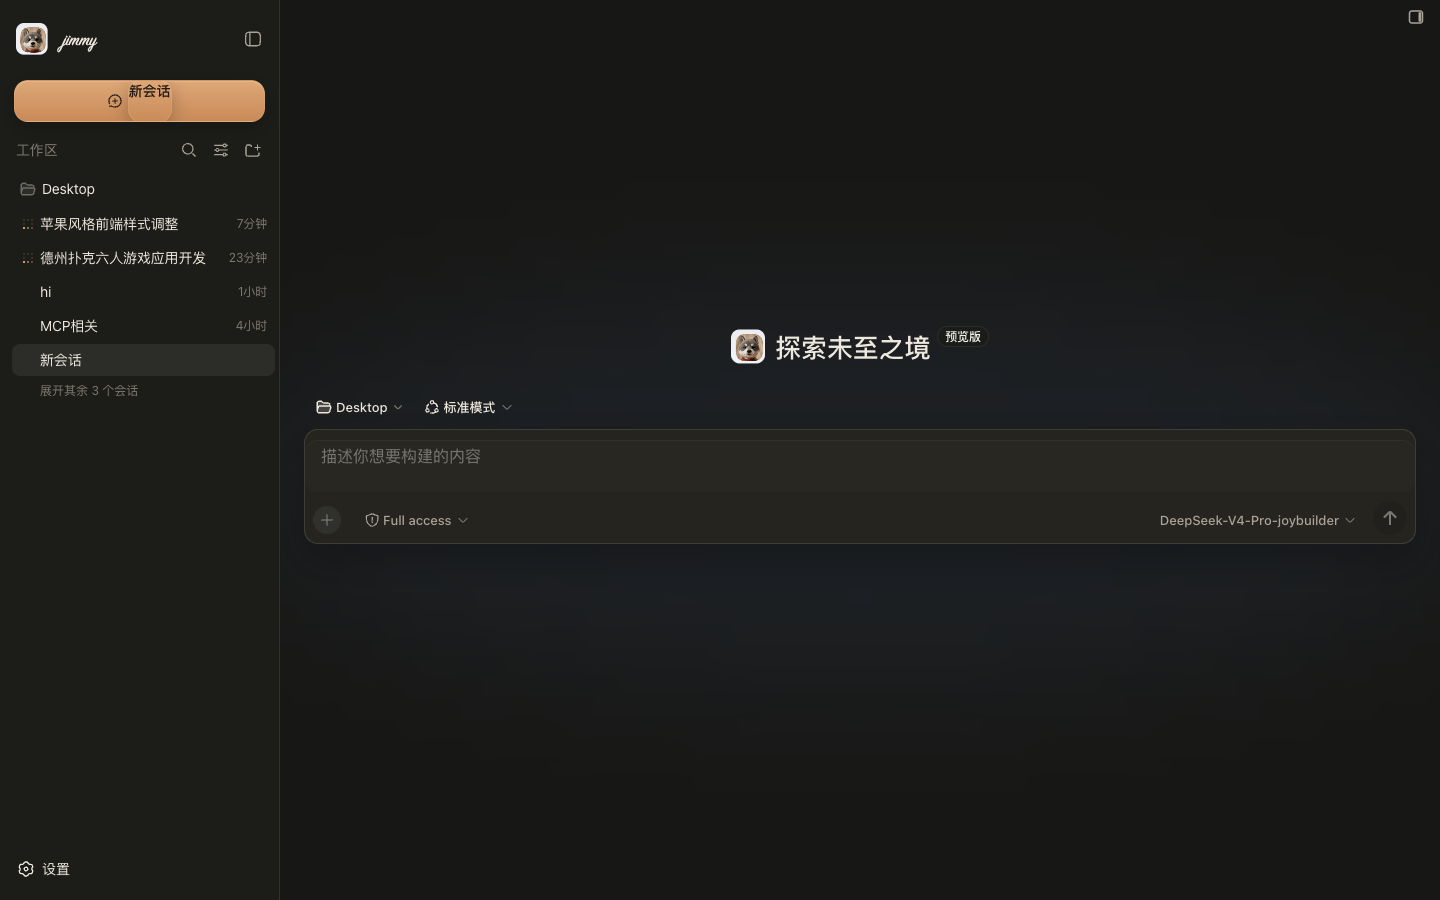
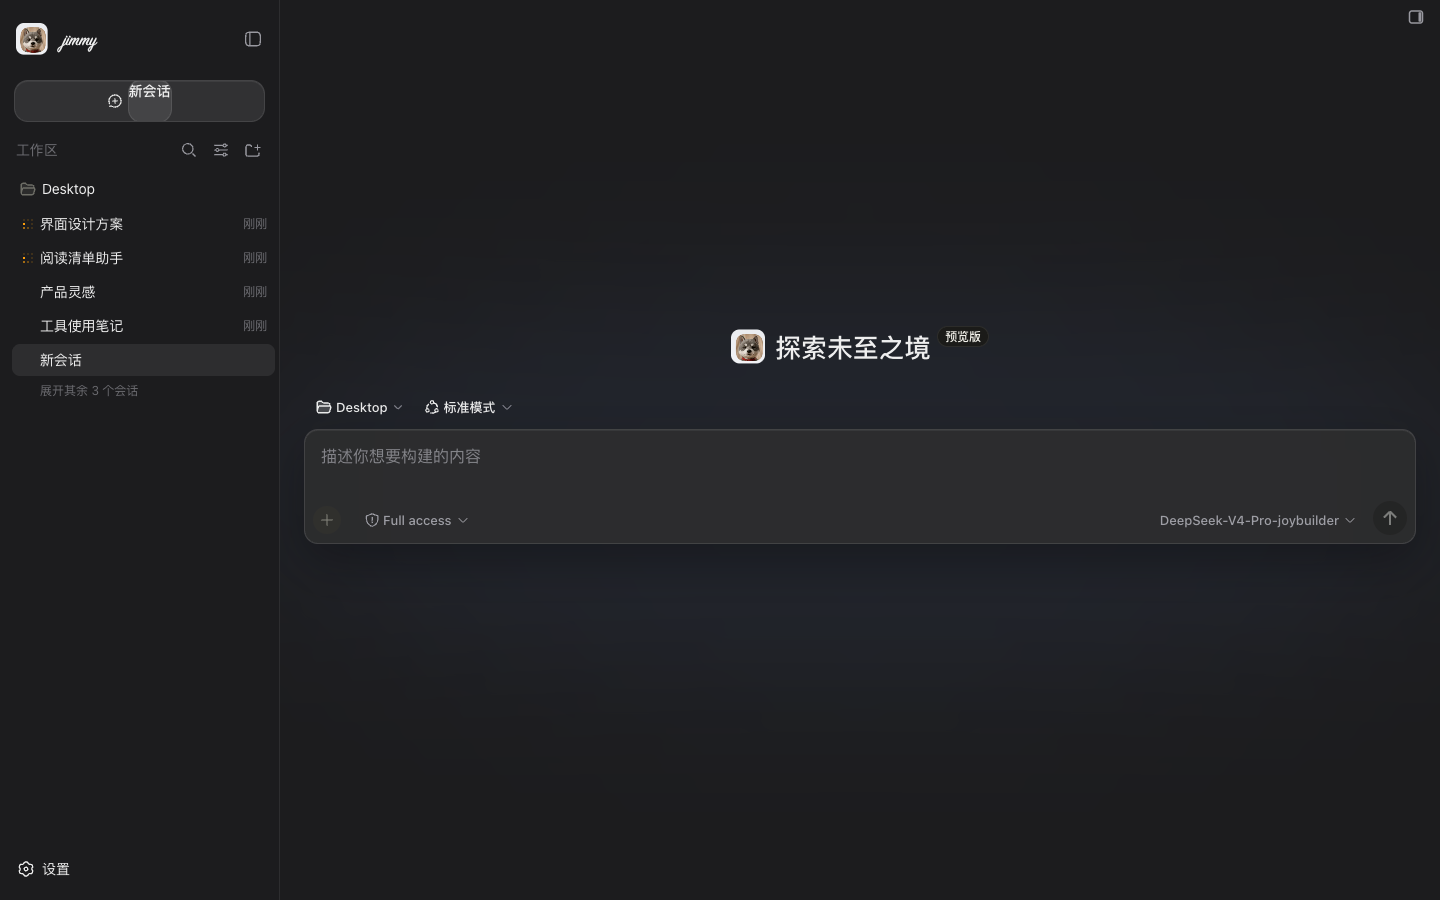
refactor: redesign Apple dark appearance

Changed region(s): [[0.0, 0.0622, 0.1875, 0.1556], [0.0312, 0.2178, 0.1875, 0.3733]]

diff --git a/lib/client.js b/lib/client.js
@@ -30,31 +30,47 @@ window.__ModuleLoader__.load({
 }
 body[data-ds-dark-theme] {
   color-scheme: dark;
-  --jimmy-orange: #d49a6a;
-  --jimmy-orange-deep: #bd8050;
-  --jimmy-cream: #2a2721;
-  --jimmy-ink: #eee9de;
-  --dsw-alias-brand-primary: #d49a6a !important;
-  --dsw-static-deepseek-450: #d49a6a !important;
-  --dsw-alias-bg-base: #171715 !important;
-  --dsw-specific-sidebar-fill: rgba(28,28,25,.92) !important;
-  --dsw-alias-bg-layer-1: #1e1e1b !important;
-  --dsw-alias-bg-layer-2: #25241f !important;
-  --dsw-alias-label-primary: #eee9de !important;
-  --dsw-alias-label-secondary: #aaa398 !important;
-  --dsw-alias-label-tertiary: #7f7a71 !important;
-  --dsw-alias-interactive-bg-hover: rgba(255,247,232,.07) !important;
-  --dsw-alias-border-l1: rgba(238,233,222,.10) !important;
-  --dsw-alias-border-l2: rgba(238,233,222,.15) !important;
-  --dsw-alias-markdown-code-block: #22211d !important;
-  --dsw-specific-input-major: #25241f !important;
-  --dsw-alias-border-l2-darkmode-thin: rgba(238,233,222,.13) !important;
-  --dsw-alias-scrollbar-bg-l2: rgba(238,233,222,.16) !important;
-  --shiki-background: #22211d !important;
-  --shiki-foreground: #ded8cd !important;
+  /* Apple-style dark hierarchy: the canvas recedes and elevated surfaces get
+     progressively lighter. Warm orange is an accent, never the background. */
+  --jimmy-orange: #ff9f0a;
+  --jimmy-orange-deep: #ffb340;
+  --jimmy-cream: #2c2c2e;
+  --jimmy-ink: rgba(255,255,255,.92);
+  --jimmy-dark-canvas: #1c1c1e;
+  --jimmy-dark-sidebar: rgba(28,28,30,.78);
+  --jimmy-dark-surface: #242426;
+  --jimmy-dark-raised: #2c2c2e;
+  --jimmy-dark-elevated: #323235;
+  --dsw-alias-brand-primary: #ff9f0a !important;
+  --dsw-static-deepseek-450: #ff9f0a !important;
+  --dsw-alias-bg-base: var(--jimmy-dark-canvas) !important;
+  --dsw-specific-sidebar-fill: var(--jimmy-dark-sidebar) !important;
+  --dsw-alias-bg-layer-1: var(--jimmy-dark-surface) !important;
+  --dsw-alias-bg-layer-2: var(--jimmy-dark-raised) !important;
+  --dsw-alias-bg-layer-3: var(--jimmy-dark-elevated) !important;
+  --dsw-alias-bg-module-platform: var(--jimmy-dark-surface) !important;
+  --dsw-specific-menu: rgba(44,44,46,.96) !important;
+  --dsw-specific-input-major: var(--jimmy-dark-raised) !important;
+  --dsw-alias-label-primary: rgba(255,255,255,.92) !important;
+  --dsw-alias-label-secondary: rgba(235,235,245,.60) !important;
+  --dsw-alias-label-tertiary: rgba(235,235,245,.38) !important;
+  --dsw-alias-label-caption: rgba(235,235,245,.46) !important;
+  --dsw-alias-interactive-bg-hover: rgba(255,255,255,.075) !important;
+  --dsw-alias-interactive-bg-hover-accent: rgba(255,255,255,.11) !important;
+  --dsw-alias-interactive-bg-active: rgba(255,255,255,.15) !important;
+  --dsw-alias-border-l1: rgba(255,255,255,.075) !important;
+  --dsw-alias-border-l2: rgba(255,255,255,.12) !important;
+  --dsw-alias-border-inverted: rgba(255,255,255,.16) !important;
+  --dsw-alias-border-l2-darkmode-thin: rgba(255,255,255,.11) !important;
+  --dsw-alias-markdown-code-block: #161618 !important;
+  --dsw-alias-scrollbar-bg-l2: rgba(255,255,255,.16) !important;
+  --dsw-shadow-lv2: 0 1px 0 rgba(255,255,255,.04), 0 12px 36px rgba(0,0,0,.28) !important;
+  --dsw-shadow-lv3: 0 1px 0 rgba(255,255,255,.05), 0 24px 70px rgba(0,0,0,.46) !important;
+  --shiki-background: #161618 !important;
+  --shiki-foreground: #e5e5ea !important;
 }
 html, body, #root { background: #f5f5f7 !important; }
-body[data-ds-dark-theme], body[data-ds-dark-theme] #root { background: #171715 !important; color: #eee9de !important; }
+body[data-ds-dark-theme], body[data-ds-dark-theme] #root { background: #1c1c1e !important; color: rgba(255,255,255,.92) !important; }
 body {
   font-family: -apple-system, BlinkMacSystemFont, "SF Pro Display", "SF Pro Text", "PingFang SC", "Helvetica Neue", Arial, sans-serif !important;
   letter-spacing: -.01em;
@@ -90,21 +106,31 @@ button, input, textarea, select { font: inherit; }
 [class*="hHd-Xa_iconButton"]:hover { transform: scale(1.04); }
 body[data-ds-dark-theme] [class*="_root"][class*="hHd-Xa"],
 body[data-ds-dark-theme] [class^="hHd-Xa_root"] {
-  background: rgba(28,28,25,.92) !important;
-  border-right-color: rgba(238,233,222,.10) !important;
-  box-shadow: 14px 0 40px rgba(0,0,0,.20) !important;
+  background: rgba(28,28,30,.76) !important;
+  border-right-color: rgba(255,255,255,.075) !important;
+  box-shadow: 14px 0 48px rgba(0,0,0,.16) !important;
+  /* Do not backdrop-filter this ancestor: settings overlays are mounted inside
+     the sidebar, and a filter would trap position:fixed in the 280px rail. */
+  backdrop-filter: none !important;
+  -webkit-backdrop-filter: none !important;
 }
 body[data-ds-dark-theme] [class*="hHd-Xa_newSession"] {
-  color: #241a13 !important;
-  background: linear-gradient(180deg,#dda877 0%,#c98a58 100%) !important;
-  border-color: rgba(239,195,150,.16) !important;
-  box-shadow: 0 5px 18px rgba(0,0,0,.24), inset 0 1px 0 rgba(255,255,255,.18) !important;
+  color: rgba(255,255,255,.92) !important;
+  background: rgba(255,255,255,.095) !important;
+  border-color: rgba(255,255,255,.09) !important;
+  box-shadow: inset 0 1px 0 rgba(255,255,255,.055) !important;
+}
+body[data-ds-dark-theme] [class*="hHd-Xa_newSession"]:hover {
+  background: rgba(255,255,255,.14) !important;
+  box-shadow: inset 0 1px 0 rgba(255,255,255,.075) !important;
 }
 
 /* Consistent premium surfaces */
 main, [role="main"] { background: #f5f5f7 !important; }
 body[data-ds-dark-theme] main,
-body[data-ds-dark-theme] [role="main"] { background: #171715 !important; }
+body[data-ds-dark-theme] [role="main"] {
+  background: radial-gradient(circle at 52% 44%, #242427 0, #1f1f21 34%, #1c1c1e 68%) !important;
+}
 button { transition: background-color .18s ease, border-color .18s ease, box-shadow .18s ease, transform .18s ease; }
 input, textarea, select {
   border-radius: 12px !important;
@@ -125,25 +151,29 @@ textarea:focus, input:focus, select:focus {
   -webkit-backdrop-filter: blur(30px);
 }
 body[data-ds-dark-theme] .uV2eYG_card {
-  background: #25241f !important;
-  border-color: rgba(238,233,222,.13) !important;
-  box-shadow: 0 14px 38px rgba(0,0,0,.24) !important;
+  background: rgba(44,44,46,.92) !important;
+  border-color: rgba(255,255,255,.11) !important;
+  box-shadow: inset 0 1px 0 rgba(255,255,255,.055), 0 18px 48px rgba(0,0,0,.30) !important;
+  backdrop-filter: saturate(135%) blur(24px);
+  -webkit-backdrop-filter: saturate(135%) blur(24px);
 }
 body[data-ds-dark-theme] :where(input, textarea, select) {
-  color: #eee9de !important;
-  background: rgba(40,39,34,.9) !important;
-  border-color: rgba(238,233,222,.14) !important;
-  box-shadow: inset 0 1px 0 rgba(255,255,255,.035) !important;
+  color: rgba(255,255,255,.92) !important;
+  background: transparent !important;
+  border-color: transparent !important;
+  box-shadow: none !important;
 }
-body[data-ds-dark-theme] :where(input, textarea)::placeholder { color: #777168 !important; }
+body[data-ds-dark-theme] :where(input, textarea)::placeholder { color: rgba(235,235,245,.32) !important; }
 body[data-ds-dark-theme] [role="dialog"] {
-  background: rgba(35,34,30,.96) !important;
-  border-color: rgba(238,233,222,.12) !important;
-  box-shadow: 0 28px 90px rgba(0,0,0,.58) !important;
+  background: rgba(44,44,46,.94) !important;
+  border-color: rgba(255,255,255,.12) !important;
+  box-shadow: inset 0 1px 0 rgba(255,255,255,.055), 0 28px 90px rgba(0,0,0,.55) !important;
+  backdrop-filter: saturate(140%) blur(32px);
+  -webkit-backdrop-filter: saturate(140%) blur(32px);
 }
 body[data-ds-dark-theme] :where(pre, [class*="codeBlock"]) {
-  background: #22211d !important;
-  border-color: rgba(238,233,222,.10) !important;
+  background: #161618 !important;
+  border-color: rgba(255,255,255,.09) !important;
 }
 
 /* Editorial typography: readable Chinese Kai body text with a handwritten
@@ -221,21 +251,21 @@ body[data-ds-dark-theme] :where(pre, [class*="codeBlock"]) {
 .wSkVaW_header[data-jimmy-sessions] .wSkVaW_tab { min-width: 42px; margin: 0 !important; padding: 3px 9px !important; color: rgba(27,27,25,.48) !important; border-radius: 6px !important; font-size: 12px !important; font-weight: 500 !important; line-height: 18px !important; opacity: 1; }
 .wSkVaW_header[data-jimmy-sessions] .wSkVaW_tab::after { display: none !important; }
 .wSkVaW_header[data-jimmy-sessions] .wSkVaW_tab[aria-selected="true"] { color: var(--jimmy-ink) !important; background: rgba(255,255,255,.68) !important; box-shadow: 0 1px 2px rgba(27,27,25,.12) !important; }
-body[data-ds-dark-theme] .jimmy-session-tab { color: rgba(238,233,222,.44) !important; }
-body[data-ds-dark-theme] .jimmy-session-tab::before { border-color: rgba(238,233,222,.30); }
-body[data-ds-dark-theme] .jimmy-session-tab[data-status="running"]::before { border-color: #e8dfd1; background: #e8dfd1; }
-body[data-ds-dark-theme] .jimmy-session-tab[data-status="waiting"]::before { border-color: #d49a6a; background: #d49a6a; }
-body[data-ds-dark-theme] .jimmy-session-tab[data-status="completed"]::before { border-color: rgba(238,233,222,.22); background: rgba(238,233,222,.14); }
-body[data-ds-dark-theme] .jimmy-session-tab:hover { color: rgba(238,233,222,.78) !important; }
-body[data-ds-dark-theme] .wSkVaW_header[data-jimmy-sessions] .wSkVaW_tabs { border-color: rgba(238,233,222,.14) !important; background: rgba(238,233,222,.05); }
-body[data-ds-dark-theme] .wSkVaW_header[data-jimmy-sessions] .wSkVaW_tab { color: rgba(238,233,222,.48) !important; }
-body[data-ds-dark-theme] .wSkVaW_header[data-jimmy-sessions] .wSkVaW_tab[aria-selected="true"] { color: #eee9de !important; background: rgba(238,233,222,.10) !important; box-shadow: 0 1px 3px rgba(0,0,0,.30) !important; }
+body[data-ds-dark-theme] .jimmy-session-tab { color: rgba(235,235,245,.42) !important; }
+body[data-ds-dark-theme] .jimmy-session-tab::before { border-color: rgba(235,235,245,.30); }
+body[data-ds-dark-theme] .jimmy-session-tab[data-status="running"]::before { border-color: #64d2ff; background: #64d2ff; }
+body[data-ds-dark-theme] .jimmy-session-tab[data-status="waiting"]::before { border-color: #ff9f0a; background: #ff9f0a; }
+body[data-ds-dark-theme] .jimmy-session-tab[data-status="completed"]::before { border-color: rgba(235,235,245,.22); background: rgba(235,235,245,.14); }
+body[data-ds-dark-theme] .jimmy-session-tab:hover { color: rgba(255,255,255,.78) !important; }
+body[data-ds-dark-theme] .wSkVaW_header[data-jimmy-sessions] .wSkVaW_tabs { border-color: rgba(255,255,255,.10) !important; background: rgba(255,255,255,.055); }
+body[data-ds-dark-theme] .wSkVaW_header[data-jimmy-sessions] .wSkVaW_tab { color: rgba(235,235,245,.48) !important; }
+body[data-ds-dark-theme] .wSkVaW_header[data-jimmy-sessions] .wSkVaW_tab[aria-selected="true"] { color: rgba(255,255,255,.92) !important; background: rgba(255,255,255,.12) !important; box-shadow: 0 1px 4px rgba(0,0,0,.34), inset 0 1px 0 rgba(255,255,255,.04) !important; }
 
 ::selection { background: rgba(233,120,54,.2); }
-body[data-ds-dark-theme] ::selection { background: rgba(212,154,106,.34); }
+body[data-ds-dark-theme] ::selection { background: rgba(255,159,10,.30); }
 ::-webkit-scrollbar { width: 10px; height: 10px; }
 ::-webkit-scrollbar-thumb { background: rgba(0,0,0,.15); border: 3px solid transparent; background-clip: padding-box; border-radius: 999px; }
-body[data-ds-dark-theme] ::-webkit-scrollbar-thumb { background: rgba(238,233,222,.18); border: 3px solid transparent; background-clip: padding-box; }
+body[data-ds-dark-theme] ::-webkit-scrollbar-thumb { background: rgba(235,235,245,.20); border: 3px solid transparent; background-clip: padding-box; }
 
 `
 

diff --git a/README.zh.md b/README.zh.md
@@ -2,7 +2,7 @@
 
 给 [DeepSeek Harness](https://github.com/deepseek-ai) 网页客户端（`dsh web`）用的墨水纸质感、苹果毛玻璃风主题。
 
-给聊天界面套上柔和的毛玻璃面板、暖色米白/墨色配色，并用温润的楷体呈现中文正文、手写字体呈现标题，同时保持代码的等宽排版。侧栏品牌区会换成手写风格的 **"jimmy"** 字样，配一个小狗头像。现在也支持原生深色模式，以炭黑纸张、暖白文字和低饱和琥珀色延续同一套墨水纸气质。
+给聊天界面套上柔和的毛玻璃面板、暖色米白/墨色配色，并用温润的楷体呈现中文正文、手写字体呈现标题，同时保持代码的等宽排版。侧栏品牌区会换成手写风格的 **"jimmy"** 字样，配一个小狗头像。现在也支持原生深色模式，以 Apple 式中性灰层级、半透明面板、柔和白色文字和克制的琥珀色点缀延续同一套墨水纸气质。
 
 ![浅色主题预览](./assets/screenshot.png)
 
@@ -21,7 +21,7 @@ CSS，热更新不够，需要完整重启才能生效）。
 ## 这个插件做了什么
 
 - 注入一段 `<style>`，定义墨水纸/毛玻璃风格的 CSS 变量，作用于侧栏、输入框、对话框、代码块和滚动条。
-- 自动跟随 DSH 的浅色/深色外观设置；深色模式不是简单反色，而是使用炭黑纸张、暖白文字和低饱和琥珀色控件。
+- 自动跟随 DSH 的浅色/深色外观设置；深色模式不是简单反色，而是使用 Apple 式中性灰明度层级、半透明材质、柔和白色文字，仅在关键状态使用琥珀色点缀。
 - 中文对话正文采用易读的楷体编辑风格，标题更具手写感，并让代码保持清晰的等宽字体。
 - 在聊天区域顶部增加最近对话 Tab；状态圆点实时区分**运行中、等待输入、已完成、空闲**，点击即可快速切换会话。
 - 将系统原有的**对话 / 轨迹**视图切换放到同一行，并设计为紧凑的分段控件，便于在聊天内容和执行轨迹之间切换。

diff --git a/README.md b/README.md
@@ -6,7 +6,8 @@ It restyles the chat shell with soft frosted-glass panels, warm cream/ink colors
 an editorial Kai/handwritten voice for conversation text, and crisp monospace
 code. It also replaces the sidebar brand mark with a handwritten **"jimmy"**
 wordmark next to a small dog avatar. A native dark mode keeps the same ink-and-
-paper character with charcoal surfaces, warm ivory text, and muted amber accents.
+paper character with Apple's neutral-gray surface hierarchy, translucent panels,
+soft white text, and a restrained amber accent.
 
 ![light theme preview](./assets/screenshot.png)
 
@@ -27,8 +28,8 @@ identity/CSS injected at boot, so a hot-reload is not enough).
 - Injects a `<style>` block with e-ink/Apple-glass CSS variables and rules for
   the sidebar, dialogs, composer, code blocks, and scrollbars.
 - Automatically follows DSH's light/dark appearance setting. Dark mode uses
-  charcoal paper, warm ivory type, and low-saturation amber controls instead of
-  applying a blunt color inversion.
+  Apple's neutral-gray elevation hierarchy, translucent materials, soft-white
+  type, and amber only for meaningful accents instead of bluntly inverting colors.
 - Gives Chinese conversation text a readable Kai-style editorial voice,
   expressive handwritten headings, and preserves monospace for code.
 - Adds a compact recent-conversation tab rail above the chat, with live status

diff --git a/CHANGELOG.md b/CHANGELOG.md
@@ -3,7 +3,7 @@
 ## Unreleased
 
 - Add an automatic ink-and-paper dark mode following DSH's appearance setting.
-- Restyle dark sidebars, composer, inputs, dialogs, code blocks, session tabs, and scrollbars with charcoal, ivory, and muted amber colors.
+- Restyle dark sidebars, composer, inputs, dialogs, code blocks, session tabs, and scrollbars with Apple's neutral-gray surface hierarchy, translucent materials, restrained shadows, and a focused amber accent.
 
 ## 0.1.0
 
